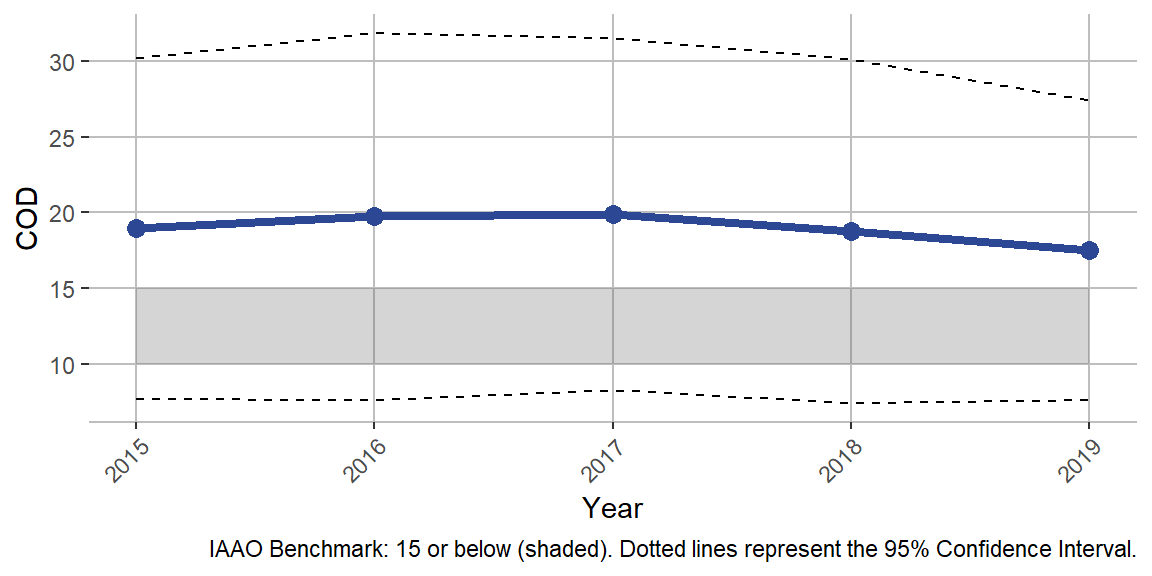
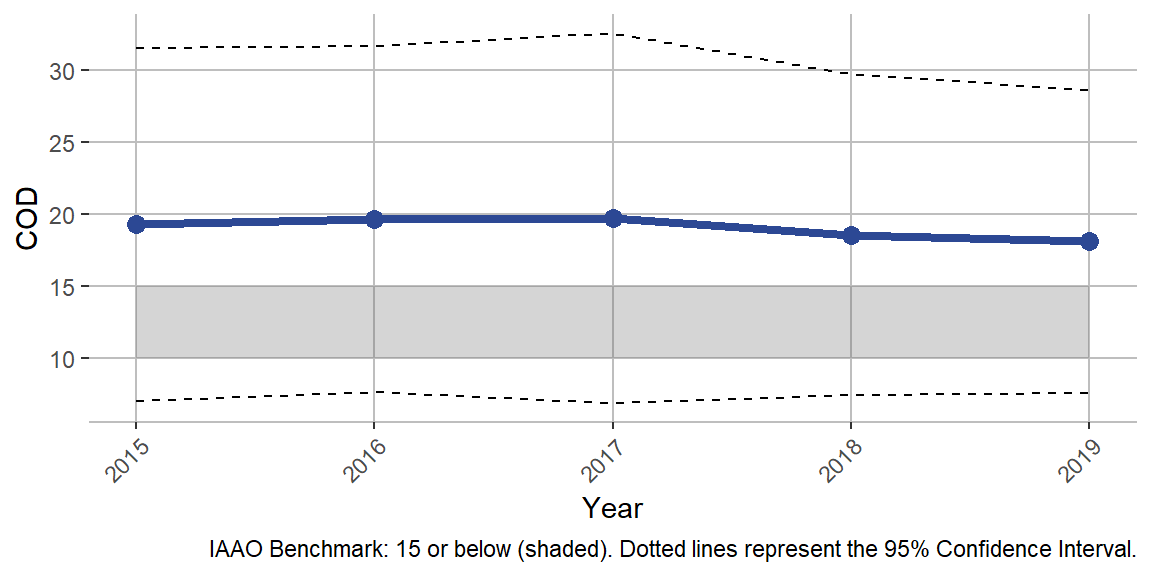
updating site

diff --git a/docs/articles/Figures.html b/docs/articles/Figures.html
@@ -121,7 +121,7 @@
 <div class="sourceCode" id="cb2"><html><body><pre class="r"><span class="kw pkg">rmarkdown</span><span class="kw ns">::</span><span class="fu"><a href="https://rdrr.io/pkg/rmarkdown/man/paged_table.html">paged_table</a></span>(<span class="no">stats</span>)</pre></body></html></div>
 <div data-pagedtable="false">
 <script data-pagedtable-source type="application/json">
-{"columns":[{"label":["N"],"name":[1],"type":["int"],"align":["right"]},{"label":["COD"],"name":[2],"type":["dbl"],"align":["right"]},{"label":["COD_SE"],"name":[3],"type":["dbl"],"align":["right"]},{"label":["PRD"],"name":[4],"type":["dbl"],"align":["right"]},{"label":["PRD_SE"],"name":[5],"type":["dbl"],"align":["right"]},{"label":["PRB"],"name":[6],"type":["dbl"],"align":["right"]},{"label":["PRB_SE"],"name":[7],"type":["dbl"],"align":["right"]},{"label":["q1_ratio"],"name":[8],"type":["dbl"],"align":["right"]},{"label":["median_ratio"],"name":[9],"type":["dbl"],"align":["right"]},{"label":["q3_ratio"],"name":[10],"type":["dbl"],"align":["right"]},{"label":["q1_sale"],"name":[11],"type":["dbl"],"align":["right"]},{"label":["median_sale"],"name":[12],"type":["dbl"],"align":["right"]},{"label":["q3_sale"],"name":[13],"type":["dbl"],"align":["right"]},{"label":["q1_assessed_value"],"name":[14],"type":["dbl"],"align":["right"]},{"label":["median_assessed_value"],"name":[15],"type":["dbl"],"align":["right"]},{"label":["q3_assessed_value"],"name":[16],"type":["dbl"],"align":["right"]},{"label":["Year"],"name":[17],"type":["dbl"],"align":["right"]}],"data":[{"1":"51879","2":"18.9550","3":"5.7500","4":"1.0612","5":"0.0133","6":"-0.0514","7":"0.0012","8":"0.7758364","9":"0.9093448","10":"1.057180","11":"148000","12":"230000","13":"375000","14":"136670.0","15":"213430","16":"331235.0","17":"2015"},{"1":"62852","2":"19.7400","3":"6.2027","4":"1.0801","5":"0.0097","6":"-0.0462","7":"0.0011","8":"0.7705720","9":"0.9001375","10":"1.060422","11":"148000","12":"229900","13":"365000","14":"133940.0","15":"209150","16":"321720.0","17":"2016"},{"1":"65961","2":"19.8879","3":"5.9527","4":"1.0327","5":"0.0112","6":"-0.0269","7":"0.0011","8":"0.7428108","9":"0.8732099","10":"1.031267","11":"155000","12":"235000","13":"365000","14":"136960.0","15":"209380","16":"316300.0","17":"2017"},{"1":"65298","2":"18.7751","3":"5.8177","4":"1.0159","5":"0.0068","6":"0.0133","7":"0.0010","8":"0.7470336","9":"0.8856039","10":"1.021504","11":"159642","12":"239900","13":"370000","14":"132382.5","15":"210645","16":"331257.5","17":"2018"},{"1":"62041","2":"17.5113","3":"5.0690","4":"1.0251","5":"0.0106","6":"0.0098","7":"0.0010","8":"0.7681042","9":"0.9035000","10":"1.036399","11":"164900","12":"245000","13":"372000","14":"140220.0","15":"217690","16":"336480.0","17":"2019"}],"options":{"columns":{"min":{},"max":[10]},"rows":{"min":[10],"max":[10]},"pages":{}}}
+{"columns":[{"label":["N"],"name":[1],"type":["int"],"align":["right"]},{"label":["COD"],"name":[2],"type":["dbl"],"align":["right"]},{"label":["COD_SE"],"name":[3],"type":["dbl"],"align":["right"]},{"label":["PRD"],"name":[4],"type":["dbl"],"align":["right"]},{"label":["PRD_SE"],"name":[5],"type":["dbl"],"align":["right"]},{"label":["PRB"],"name":[6],"type":["dbl"],"align":["right"]},{"label":["PRB_SE"],"name":[7],"type":["dbl"],"align":["right"]},{"label":["q1_ratio"],"name":[8],"type":["dbl"],"align":["right"]},{"label":["median_ratio"],"name":[9],"type":["dbl"],"align":["right"]},{"label":["q3_ratio"],"name":[10],"type":["dbl"],"align":["right"]},{"label":["q1_sale"],"name":[11],"type":["dbl"],"align":["right"]},{"label":["median_sale"],"name":[12],"type":["dbl"],"align":["right"]},{"label":["q3_sale"],"name":[13],"type":["dbl"],"align":["right"]},{"label":["q1_assessed_value"],"name":[14],"type":["dbl"],"align":["right"]},{"label":["median_assessed_value"],"name":[15],"type":["dbl"],"align":["right"]},{"label":["q3_assessed_value"],"name":[16],"type":["dbl"],"align":["right"]},{"label":["Year"],"name":[17],"type":["dbl"],"align":["right"]}],"data":[{"1":"51879","2":"19.2819","3":"6.2316","4":"1.0886","5":"0.0104","6":"-0.0514","7":"0.0012","8":"0.7758364","9":"0.9093448","10":"1.057180","11":"148000","12":"230000","13":"375000","14":"136670.0","15":"213430","16":"331235.0","17":"2015"},{"1":"62852","2":"19.6647","3":"6.1276","4":"1.0434","5":"0.0117","6":"-0.0462","7":"0.0011","8":"0.7705720","9":"0.9001375","10":"1.060422","11":"148000","12":"229900","13":"365000","14":"133940.0","15":"209150","16":"321720.0","17":"2016"},{"1":"65961","2":"19.7333","3":"6.5582","4":"1.0633","5":"0.0065","6":"-0.0269","7":"0.0011","8":"0.7428108","9":"0.8732099","10":"1.031267","11":"155000","12":"235000","13":"365000","14":"136960.0","15":"209380","16":"316300.0","17":"2017"},{"1":"65298","2":"18.5759","3":"5.6745","4":"1.0072","5":"0.0097","6":"0.0133","7":"0.0010","8":"0.7470336","9":"0.8856039","10":"1.021504","11":"159642","12":"239900","13":"370000","14":"132382.5","15":"210645","16":"331257.5","17":"2018"},{"1":"62041","2":"18.1057","3":"5.3542","4":"1.0211","5":"0.0073","6":"0.0098","7":"0.0010","8":"0.7681042","9":"0.9035000","10":"1.036399","11":"164900","12":"245000","13":"372000","14":"140220.0","15":"217690","16":"336480.0","17":"2019"}],"options":{"columns":{"min":{},"max":[10]},"rows":{"min":[10],"max":[10]},"pages":{}}}
   </script>
 </div>
 </div>
@@ -522,7 +522,7 @@ AV ~ SP + low + high + low * SP + high * SP
 <h2 class="hasAnchor">
 <a href="#coefficient-of-dispersion-cod" class="anchor"></a>Coefficient of Dispersion (COD)</h2>
 <div class="sourceCode" id="cb6"><html><body><pre class="r"><span class="fu"><a href="https://rdrr.io/r/base/print.html">print</a></span>(<span class="no">iaao_rslt</span><span class="kw">[[</span><span class="fl">1</span>]])
-<span class="co">#&gt; [1] "For 2019, the COD in Cook County, Illinois was 17.51 which &lt;b&gt;did not meet&lt;/b&gt; the IAAO standard for uniformity. "</span>
+<span class="co">#&gt; [1] "For 2019, the COD in Cook County, Illinois was 18.11 which &lt;b&gt;did not meet&lt;/b&gt; the IAAO standard for uniformity. "</span>
 <span class="no">iaao_rslt</span><span class="kw">[[</span><span class="fl">2</span>]]</pre></body></html></div>
 <p><img src="Figures_files/figure-html/codgraph-1.png" width="576"></p>
 </div>
@@ -530,7 +530,7 @@ AV ~ SP + low + high + low * SP + high * SP
 <h2 class="hasAnchor">
 <a href="#price-related-differential-prd" class="anchor"></a>Price-Related Differential (PRD)</h2>
 <div class="sourceCode" id="cb7"><html><body><pre class="r"><span class="fu"><a href="https://rdrr.io/r/base/print.html">print</a></span>(<span class="no">iaao_rslt</span><span class="kw">[[</span><span class="fl">3</span>]])
-<span class="co">#&gt; [1] " In 2019, the PRD in  Cook County, Illinois, was 1.025 which &lt;b&gt;meets &lt;/b&gt; the IAAO standard for vertical equity."</span>
+<span class="co">#&gt; [1] " In 2019, the PRD in  Cook County, Illinois, was 1.021 which &lt;b&gt;meets &lt;/b&gt; the IAAO standard for vertical equity."</span>
 <span class="no">iaao_rslt</span><span class="kw">[[</span><span class="fl">4</span>]]</pre></body></html></div>
 <p><img src="Figures_files/figure-html/prdgraph-1.png" width="576"></p>
 </div>

diff --git a/docs/index.html b/docs/index.html
@@ -95,7 +95,7 @@
 <div class="page-header"><h1 class="hasAnchor">
 <a href="#transparency--equity-in-property-assessments" class="anchor"></a>Transparency &amp; Equity in Property Assessments</h1></div>
 <p>This package analyzes the accuracy of property assessments and produces graphs, tables, and reports designed for general use. This package is produced by the <a href="https://harris.uchicago.edu/research-impact/centers-institutes/center-municipal-finance">Center for Municipal Finance</a>, a research institute at the Harris School of Public Policy, University of Chicago.</p>
-<p>For a detailed guide on how to use this package check out our <a href="https://erhla.github.io/cmfproperty/articles/cmfproperty.html"><strong>Get started page</strong></a>.</p>
+<p>For a detailed guide on how to use this package check out our <a href="https://cmf-uchicago.github.io/cmfproperty/articles/cmfproperty.html"><strong>Get started page</strong></a>.</p>
 <div id="installation" class="section level2">
 <h2 class="hasAnchor">
 <a href="#installation" class="anchor"></a>Installation</h2>
@@ -117,7 +117,7 @@
 <span class="co">#&gt; 4 13093160601015      2017     125500          87200</span>
 <span class="co">#&gt; 5 14322110150000      2018    3705000        3670740</span>
 <span class="co">#&gt; 6 27021200080000      2016     345000         267280</span></pre></div>
-<p>Then, preprocess your data with <code>reformat_data</code> and call <code>make_report</code>. The report from the example below can be found <a href="https://erhla.github.io/Cook%20County,%20Illinois.html">here</a>.</p>
+<p>Then, preprocess your data with <code>reformat_data</code> and call <code>make_report</code>. The report from the example below can be found <a href="https://cmf-uchicago.github.io/Cook%20County,%20Illinois.html">here</a>.</p>
 <div class="sourceCode" id="cb4"><pre class="r"><span class="no">df</span> <span class="kw">&lt;-</span> <span class="kw pkg">cmfproperty</span><span class="kw ns">::</span><span class="no"><a href="reference/example_data.html">example_data</a></span>
 
 <span class="no">ratios</span> <span class="kw">&lt;-</span>
@@ -127,7 +127,6 @@
     <span class="kw">assessment_col</span> <span class="kw">=</span> <span class="st">"ASSESSED_VALUE"</span>,
     <span class="kw">sale_year_col</span> <span class="kw">=</span> <span class="st">"SALE_YEAR"</span>,
   )
-
 
 <span class="kw pkg">cmfproperty</span><span class="kw ns">::</span><span class="fu"><a href="reference/make_report.html">make_report</a></span>(<span class="no">ratios</span>,
                          <span class="kw">jurisdiction_name</span> <span class="kw">=</span> <span class="st">"Cook County, Illinois"</span>,

diff --git a/docs/articles/cmfproperty.html b/docs/articles/cmfproperty.html
@@ -163,11 +163,11 @@
 <div class="sourceCode" id="cb5"><html><body><pre class="r"><span class="no">stats</span> <span class="kw">&lt;-</span> <span class="kw pkg">cmfproperty</span><span class="kw ns">::</span><span class="fu"><a href="../reference/calc_iaao_stats.html">calc_iaao_stats</a></span>(<span class="no">ratios</span>)
 <span class="fu"><a href="https://rdrr.io/r/utils/head.html">head</a></span>(<span class="no">stats</span>)
 <span class="co">#&gt;       N     COD COD_SE    PRD PRD_SE     PRB PRB_SE  q1_ratio median_ratio</span>
-<span class="co">#&gt; 1 51879 19.2645 6.1766 1.0651 0.0060 -0.0514 0.0012 0.7758364    0.9093448</span>
-<span class="co">#&gt; 2 62852 19.7658 6.1809 1.0640 0.0143 -0.0462 0.0011 0.7705720    0.9001375</span>
-<span class="co">#&gt; 3 65961 19.9967 6.0671 1.0384 0.0046 -0.0269 0.0011 0.7428108    0.8732099</span>
-<span class="co">#&gt; 4 65298 18.9788 5.4804 1.0196 0.0072  0.0133 0.0010 0.7470336    0.8856039</span>
-<span class="co">#&gt; 5 62041 17.6421 5.1189 1.0328 0.0051  0.0098 0.0010 0.7681042    0.9035000</span>
+<span class="co">#&gt; 1 51879 18.9191 6.0661 1.0717 0.0116 -0.0514 0.0012 0.7758364    0.9093448</span>
+<span class="co">#&gt; 2 62852 19.8458 6.3278 1.0494 0.0112 -0.0462 0.0011 0.7705720    0.9001375</span>
+<span class="co">#&gt; 3 65961 19.6227 6.0934 1.0546 0.0058 -0.0269 0.0011 0.7428108    0.8732099</span>
+<span class="co">#&gt; 4 65298 18.6674 5.5129 1.0320 0.0092  0.0133 0.0010 0.7470336    0.8856039</span>
+<span class="co">#&gt; 5 62041 17.8036 5.6991 1.0120 0.0042  0.0098 0.0010 0.7681042    0.9035000</span>
 <span class="co">#&gt;   q3_ratio q1_sale median_sale q3_sale q1_assessed_value median_assessed_value</span>
 <span class="co">#&gt; 1 1.057180  148000      230000  375000          136670.0                213430</span>
 <span class="co">#&gt; 2 1.060422  148000      229900  365000          133940.0                209150</span>
